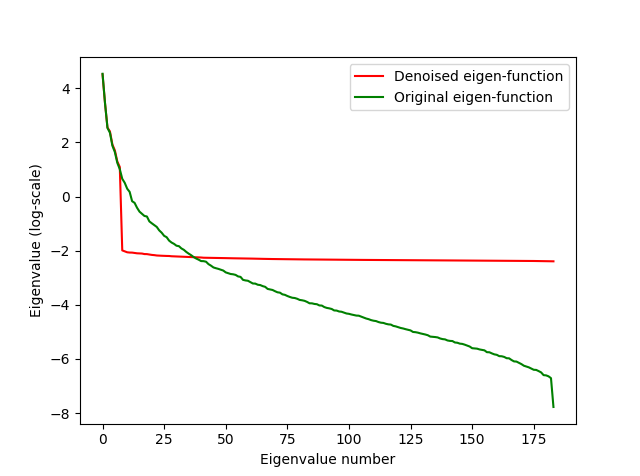
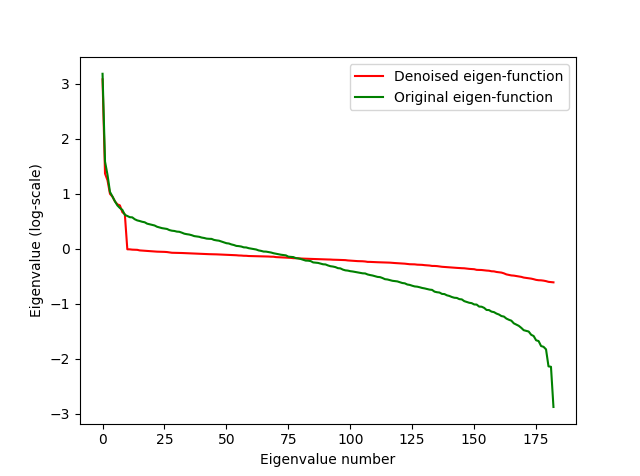
new graph of eigenvalues

diff --git a/Covariance_matrix.py b/Covariance_matrix.py
@@ -189,21 +189,20 @@ if __name__ == '__main__':
         
     #calculate_correlation(S)
     eVal0, eVec0, denoised_eVal, denoised_eVec, denoised_corr, var0 = denoise_OL(S)
-    detoned_corr = mp.detoned_corr(denoised_corr, denoised_eVal, denoised_eVec, market_component=0)
+    detoned_corr = mp.detoned_corr(denoised_corr, denoised_eVal, denoised_eVec, market_component=1)
     detoned_eVal, detoned_eVec = mp.getPCA(detoned_corr)
 
-    denoised_eigenvalue = np.diag(denoised_eVal)
-    eigenvalue_prior = np.diag(eVal0)
-    plt.plot(range(0, len(denoised_eigenvalue)), np.log(denoised_eigenvalue), color='r', label="Denoised eigen-function")
-    plt.plot(range(0, len(eigenvalue_prior)), np.log(eigenvalue_prior), color='g', label="Original eigen-function")
-    plt.xlabel("Eigenvalue number")
-    plt.ylabel("Eigenvalue (log-scale)")
-    plt.legend(loc="upper right")
-    plt.show()
+denoised_eigenvalue = np.diag(denoised_eVal)
+eigenvalue_prior = np.diag(eVal0)
+plt.plot(range(0, len(denoised_eigenvalue)), np.log(denoised_eigenvalue), color='r', label="Denoised eigen-function")
+plt.plot(range(0, len(eigenvalue_prior)), np.log(eigenvalue_prior), color='g', label="Original eigen-function")
+plt.xlabel("Eigenvalue number")
+plt.ylabel("Eigenvalue (log-scale)")
+plt.legend(loc="upper right")
+plt.show()
                 
     fig = plt.figure()
     ax  = fig.add_subplot(111)
-    bins = 50
     ax.hist(np.diag(denoised_eVal), normed = True, bins=50, label="denoised") 
     ax.hist(np.diag(detoned_eVal), normed = True, bins=50, label="detoned") 
 
